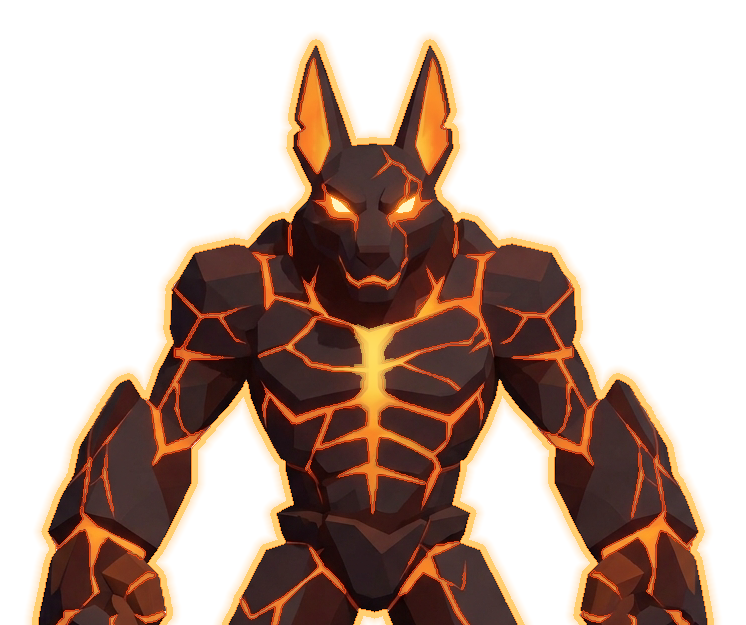
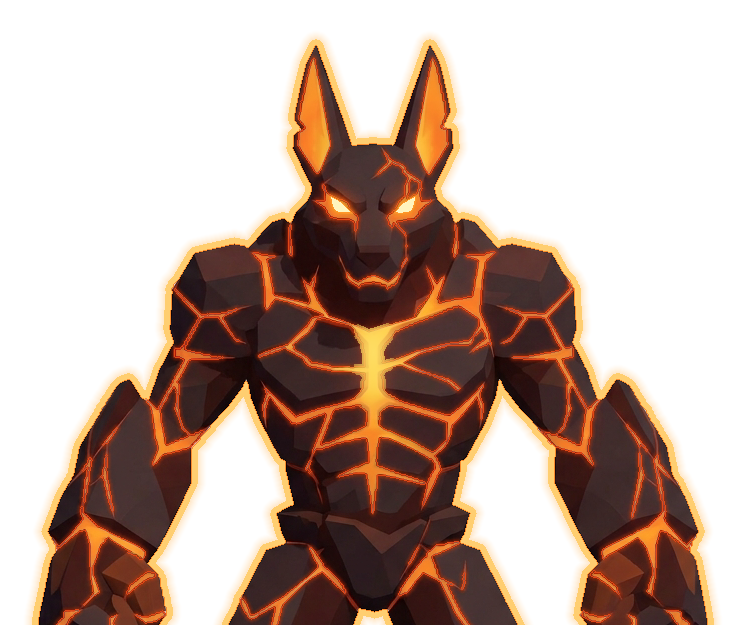
Claude checker iter 15: jackal cracks bleed a soft orange glow onto the rock, like TARGET's
Claude-Session: https://claude.ai/code/session_01PrAhhJfzHrAMCjXuBBPHKb

diff --git a/tools/beast_sprite.py b/tools/beast_sprite.py
@@ -78,6 +78,11 @@ CRACK_GROW = 1
 CRACK_EDGE = np.array([222, 72, 24], float)
 CRACK_CORE = np.array([255, 214, 96], float)
 CRACK_CORE_MIX = 0.4
+# Checker iter 15: TARGET's seams bleed a soft orange glow onto the rock
+# beside them; ours stopped dead at the red edge and read as thin veins.
+CRACK_GLOW = 5
+CRACK_GLOW_A = 0.45
+CRACK_GLOW_RGB = np.array([200, 70, 25], float)
 
 # The eyes: a near-white core, a hot orange ring and a short glow over the
 # rock, so they survive the mipmap as TARGET's two bright points.
@@ -263,6 +268,10 @@ def build(beast_id):
     crack = inside & (r > 150) & (r - b > 90)
     grown = ndi.binary_dilation(crack, disk(CRACK_GROW * SCALE)) & inside & ~crack
     out[grown, :3] = CRACK_EDGE
+    d = ndi.distance_transform_edt(~(crack | grown))
+    bleed = inside & ~crack & ~grown & (d < CRACK_GLOW * SCALE)
+    t = (np.clip(1 - d / (CRACK_GLOW * SCALE), 0, 1) ** 1.5 * CRACK_GLOW_A)[bleed, None]
+    out[bleed, :3] += (CRACK_GLOW_RGB - out[bleed, :3]) * t
     core = ndi.binary_erosion(crack, disk(1))
     out[core, :3] += (CRACK_CORE - out[core, :3]) * CRACK_CORE_MIX
     if spec.get("hot"):

diff --git a/design/match-log/log.md b/design/match-log/log.md
@@ -74,3 +74,7 @@ Note for later runs: after rebuilding the sprite, run `godot --headless --path g
 ## iter 14 — 2026-10-07 (pair iter-16.png; after: iter-17.png)
 Critic top 3: (1) MAJOR pose; (2) MAJOR fist fire; (3) MAJOR stones (route up the left arm, flatter). Then (4) MAJOR extra UI, (5) MAJOR proportions/framing, (6) MODERATE cracks — the chest hot spot a pale, blown-out blob spreading across the chest where TARGET's is a vertical yellow seam, (7) MODERATE outline now "a little thinner" than TARGET's.
 Skipped 1–5 under the rulings above. Left 7 alone: iter 13 measured our line at TARGET's 6 px, and the critics now split on it. Fixed 6 in `tools/beast_sprite.py`: the sternum heat is an upright ellipse (HOT_SQUASH 0.45 sideways) and its core is TARGET's yellow (255,222,100), not pale (255,240,170).
+
+## iter 15 — 2026-10-07 (pair iter-17.png; after: iter-18.png)
+Critic top 3: (1) MAJOR pose; (2) MAJOR fist fire; (3) MAJOR proportions. Then (4) MAJOR extra UI, (5) MAJOR stone route, (6) MODERATE cracks — thin, uniform veins with no glow bleed, where TARGET's seams bleed orange onto the rock (it called the new sternum seam close to TARGET), (7) MODERATE outline thinner than TARGET's.
+Skipped 1–5 under the rulings above. Left 7: the line measures TARGET's 6 px (iter 13), and iter 13's critic called the 9 px line too thick. Fixed 6 in `tools/beast_sprite.py`: rock within 5 px of a crack takes a fading orange (200,70,25) wash, up to 45%.
